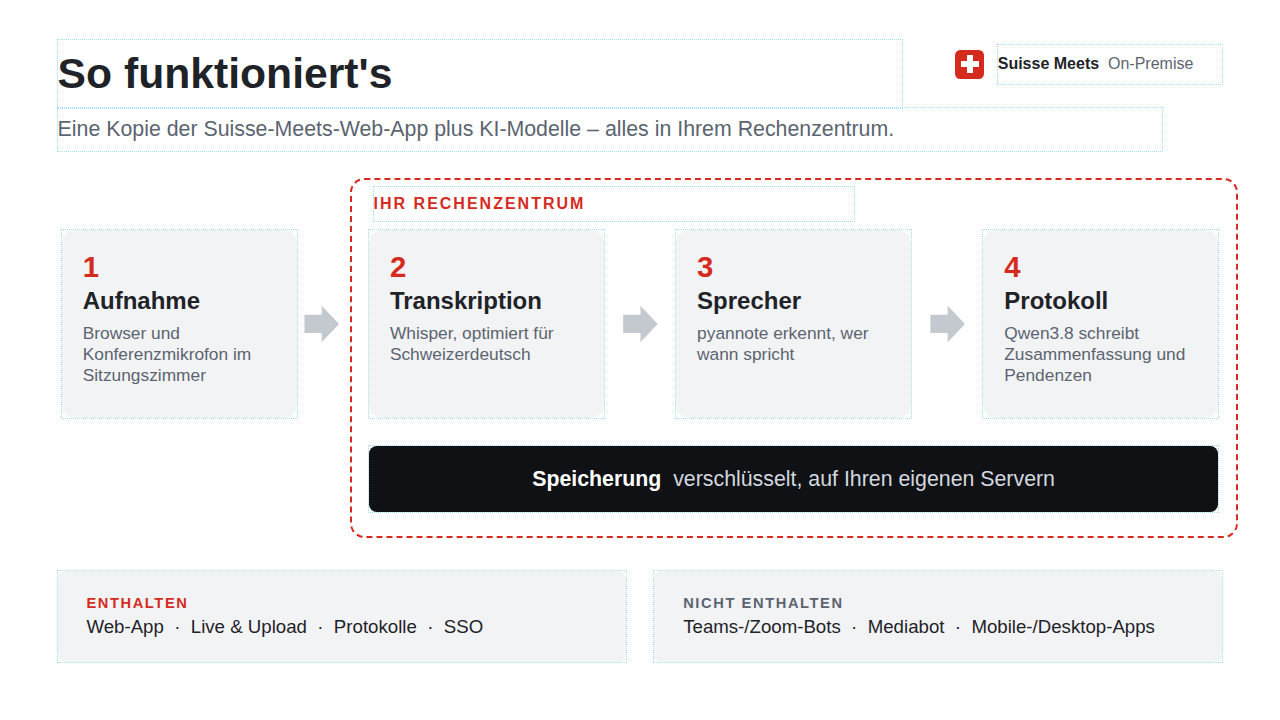
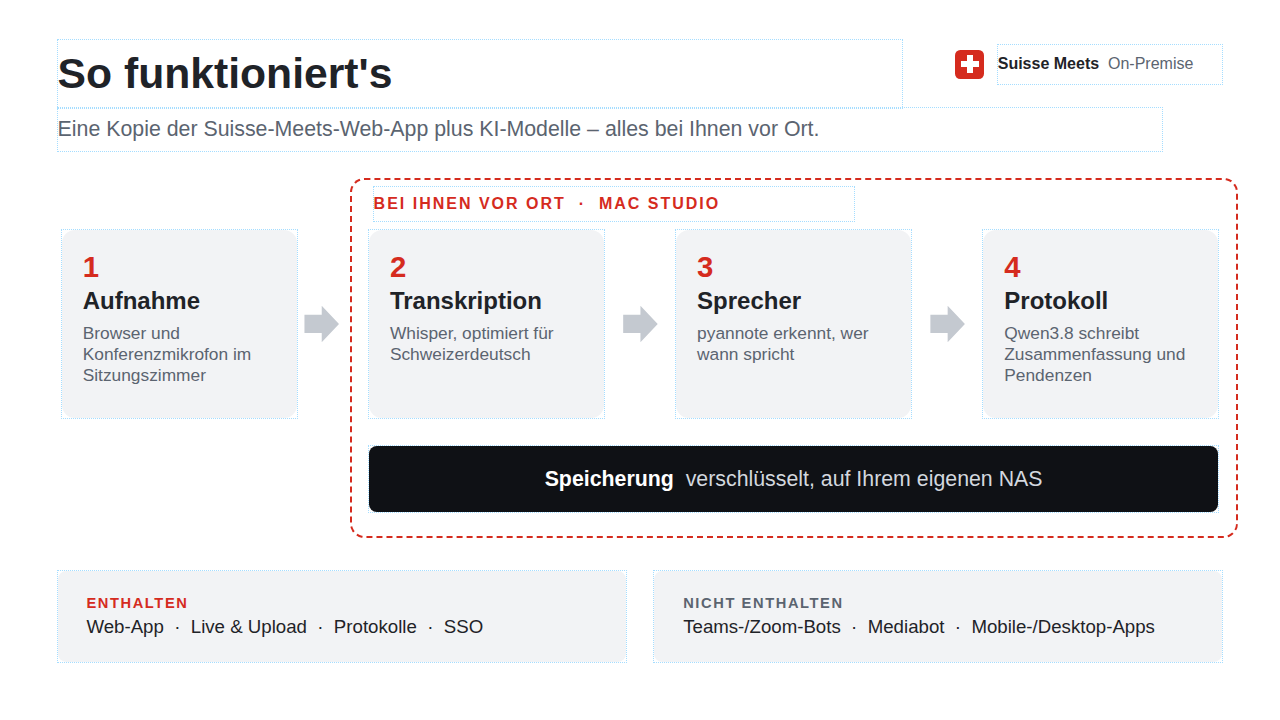
Recommend Mac Studio package at CHF 55'000 all-in
Slide 3 now presents a single Mac Studio bundle (2x M5 Ultra, NAS,
microphones, setup, licence and first-year support) instead of three
hardware tiers; slide 2 wording adjusted to on-site Mac Studio.

Claude-Session: https://claude.ai/code/session_01BmLM6LkhwdNVFqBnDhcXTw

Changed region(s): [[0.4062, 0.6417, 0.8438, 0.7028], [0.5, 0.1528, 0.6875, 0.2139], [0.2812, 0.275, 0.5625, 0.3056]]

diff --git a/presentations/suisse-meets-onprem/build_deck_de.py b/presentations/suisse-meets-onprem/build_deck_de.py
@@ -63,7 +63,7 @@ for k, (big, small) in enumerate(facts):
 # ================================ Folie 2 ====================================
 s2 = Slide(bg=WHITE)
 header(s2, "So funktioniert's",
-       "Eine Kopie der Suisse-Meets-Web-App plus KI-Modelle – alles in Ihrem Rechenzentrum.")
+       "Eine Kopie der Suisse-Meets-Web-App plus KI-Modelle – alles bei Ihnen vor Ort.")
 
 cw, gap, cy, ch = 2.45, 0.75, 2.4, 1.95
 x0 = (W - (4 * cw + 3 * gap)) / 2
@@ -78,7 +78,7 @@ fx0, fx1 = xs[1] - 0.2, xs[3] + cw + 0.2
 s2.shape(fx0, 1.85, fx1 - fx0, 3.75, line=RED, line_w=1.5, dash="dash", geom="roundRect", radius=4000,
          name="Rahmen Rechenzentrum")
 s2.text(fx0 + 0.25, 1.95, 5.0, 0.35,
-        [para(run("IHR RECHENZENTRUM", 12, RED, b=True, spc=150))], anchor="ctr")
+        [para(run("BEI IHNEN VOR ORT  ·  MAC STUDIO", 12, RED, b=True, spc=150))], anchor="ctr")
 
 for k, (n, title, desc) in enumerate(steps):
     s2.shape(xs[k], cy, cw, ch, fill=TINT, geom="roundRect", radius=7000, inset=(0.22, 0.2, 0.22, 0.2),
@@ -93,7 +93,7 @@ for k, (n, title, desc) in enumerate(steps):
 s2.shape(xs[1], 4.65, fx1 - 0.2 - xs[1], 0.68, fill=INK, geom="roundRect", radius=12000, anchor="ctr",
          inset=(0.2, 0.05, 0.2, 0.05), name="Speicher",
          paras=[para([run("Speicherung  ", 16, WHITE, b=True),
-                      run("verschlüsselt, auf Ihren eigenen Servern", 16, SOFT_D)], algn="ctr")])
+                      run("verschlüsselt, auf Ihrem eigenen NAS", 16, SOFT_D)], algn="ctr")])
 
 bw = (W - 2 * M - 0.3) / 2
 for k, (lab, txt, col) in enumerate([
@@ -106,43 +106,51 @@ for k, (lab, txt, col) in enumerate([
 
 # ================================ Folie 3 ====================================
 s3 = Slide(bg=WHITE)
-header(s3, "Hardware-Empfehlung", "Ein Server genügt – alle KI-Modelle laufen lokal auf einer Grafikkarte.")
+header(s3, "Unsere Empfehlung: Mac Studio", "Einfach, leise und sofort einsatzbereit – kein Serverraum nötig.")
 
-tiers = [
-    dict(tag="KOMPAKT", name="Mac Studio", spec="M5 Ultra · 96 GB",
-         pts=["bis ca. 30 Nutzer", "2–3 parallele Sitzungen"], price="CHF 6–8k", dark=False),
-    dict(tag="EMPFOHLEN", name="GPU-Server", spec="NVIDIA RTX PRO 6000 · 96 GB",
-         pts=["50–300 Nutzer", "~15 parallele Sitzungen"], price="CHF 25–40k", dark=True),
-    dict(tag="ENTERPRISE", name="2 GPU-Server", spec="redundant, ohne Ausfallpunkt",
-         pts=["300–1'500 Nutzer", "40+ parallele Sitzungen"], price="CHF 90–130k", dark=False),
-]
-tw_, ty, th = (W - 2 * M - 2 * 0.35) / 3, 1.95, 4.1
-for k, t in enumerate(tiers):
-    x = M + k * (tw_ + 0.35)
-    dk = t["dark"]
-    body = WHITE if dk else TEXT
-    sub = SOFT_D if dk else MUTED
-    s3.shape(x, ty, tw_, th, fill=INK if dk else TINT, geom="roundRect", radius=5000, name=t["tag"])
-    if dk:
-        s3.shape(x + 0.35, ty + 0.35, 1.55, 0.36, fill=RED, geom="roundRect", radius=50000, anchor="ctr",
-                 inset=(0, 0, 0, 0), paras=[para(run(t["tag"], 11, WHITE, b=True, spc=120), algn="ctr")])
-    else:
-        s3.text(x + 0.35, ty + 0.35, 2.5, 0.36, [para(run(t["tag"], 11, MUTED, b=True, spc=120))], anchor="ctr")
-    s3.text(x + 0.35, ty + 0.9, tw_ - 0.7, 1.05,
-            [para(run(t["name"], 26, body, b=True), after=2), para(run(t["spec"], 15, sub))], anchor="t")
-    s3.text(x + 0.35, ty + 2.05, tw_ - 0.7, 0.9,
-            [para(run(p, 16, body), after=6, bullet="•", bullet_color=RED, indent=0.22) for p in t["pts"]])
-    s3.text(x + 0.35, ty + th - 0.95, tw_ - 0.7, 0.65,
-            [para([run(t["price"], 28, body, b=True)])], anchor="ctr")
+top, bot = 1.85, 6.3
+# Komplettpaket (links)
+px_, pw = M, 6.0
+s3.shape(px_, top, pw, bot - top, fill=INK, geom="roundRect", radius=4000, name="Komplettpaket")
+s3.shape(px_ + 0.4, top + 0.35, 1.95, 0.36, fill=RED, geom="roundRect", radius=50000, anchor="ctr",
+         paras=[para(run("KOMPLETTPAKET", 11, WHITE, b=True, spc=120), algn="ctr")])
+s3.text(px_ + 0.4, top + 0.85, pw - 0.8, 0.85, [para(run("CHF 55'000", 44, WHITE, b=True))], anchor="ctr")
+s3.text(px_ + 0.4, top + 1.7, pw - 0.8, 0.35,
+        [para(run("einmalig, inkl. Hardware, exkl. MWST", 14, MUTED_D))], anchor="ctr")
+items = ["2 × Mac Studio M5 Ultra, 256 GB – redundant",
+         "NAS-Speicher mit Backup und USV",
+         "Konferenzmikrofone für 5 Sitzungszimmer",
+         "Installation, Integration und Schulung",
+         "Suisse Meets Lizenz und Support im 1. Jahr"]
+s3.text(px_ + 0.4, top + 2.3, pw - 0.8, 1.95,
+        [para(run(t, 15, WHITE), after=6, bullet="•", bullet_color=RED, indent=0.24) for t in items])
 
-s3.text(M, 6.3, W - 2 * M, 0.45,
-        [para([run("Einführung in 6–8 Wochen", 15, TEXT, b=True),
-               run("   ·   Updates offline und signiert   ·   Support nur über Ihr VPN", 15, MUTED)])],
-        anchor="ctr")
-s3.text(M, 6.8, W - 2 * M, 0.35,
-        [para(run("Richtpreise nur Hardware, exkl. MWST, Stand September 2026. "
-                  "Kapazitäten sind Schätzungen und werden im Abnahmetest bestätigt.", 10.5, MUTED))],
-        anchor="ctr")
+# Warum Mac Studio (rechts)
+rx = px_ + pw + 0.45
+rw = W - M - rx
+s3.text(rx, top, rw, 0.3, [para(run("WARUM MAC STUDIO?", 12, RED, b=True, spc=150))], anchor="ctr")
+reasons = [("Einfach", "Plug & Play – kein Serverraum, kein Rack, keine Spezialkühlung."),
+           ("Leise und sparsam", "Steht im Büro und braucht nur einen Bruchteil des Stroms eines GPU-Servers."),
+           ("Ausfallsicher", "Zwei Geräte teilen sich die Last. Fällt eines aus, übernimmt das andere.")]
+for k, (t, d) in enumerate(reasons):
+    y = top + 0.45 + k * 0.95
+    num_y = y + 0.05
+    s3.shape(rx, num_y, 0.46, 0.46, fill=RED, geom="ellipse", anchor="ctr",
+             paras=[para(run(str(k + 1), 15, WHITE, b=True), algn="ctr")])
+    s3.text(rx + 0.65, y, rw - 0.65, 0.85,
+            [para(run(t, 17, TEXT, b=True), after=2), para(run(d, 13.5, MUTED), line=105)])
+
+tw3 = (rw - 2 * 0.2) / 3
+for k, (big, small) in enumerate([("~100", "Nutzer"), ("~8", "parallele Sitzungen"), ("4–6", "Wochen bis Go-live")]):
+    s3.shape(rx + k * (tw3 + 0.2), bot - 1.0, tw3, 1.0, fill=TINT, geom="roundRect", radius=9000,
+             inset=(0.1, 0.08, 0.1, 0.08), anchor="ctr",
+             paras=[para(run(big, 24, RED, b=True), algn="ctr", after=1),
+                    para(run(small, 11.5, MUTED), algn="ctr")])
+
+s3.text(M, 6.55, W - 2 * M, 0.55,
+        [para(run("Richtpreis Stand September 2026. Kapazitäten sind Schätzungen und werden im Abnahmetest "
+                  "bestätigt. Für Organisationen ab ca. 300 Nutzern: GPU-Server-Variante auf Anfrage.",
+                  10.5, MUTED), line=105)], anchor="ctr")
 
 out = sys.argv[1] if len(sys.argv) > 1 else "Suisse_Meets_OnPrem_DE.pptx"
 write_pptx(out, [s1, s2, s3],
